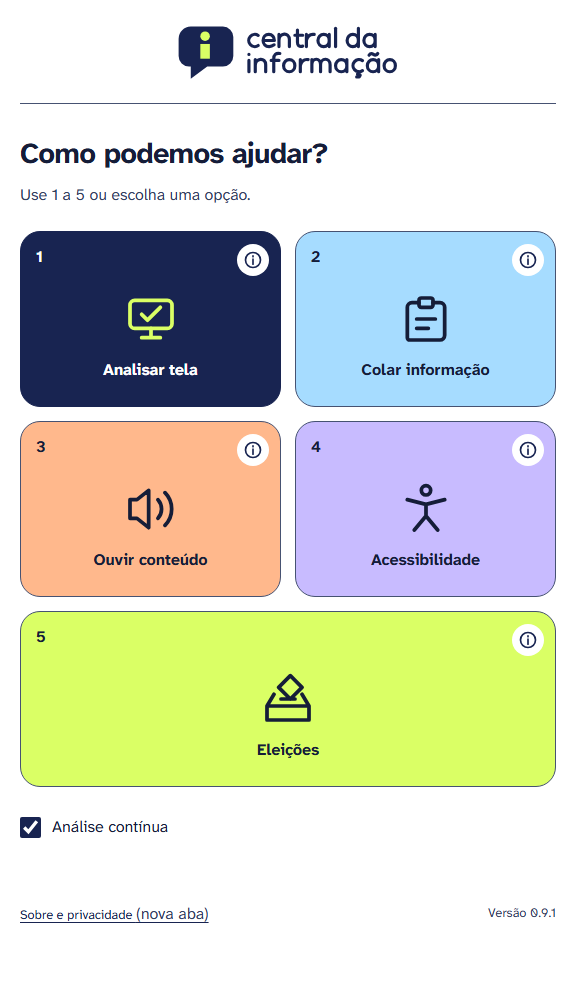
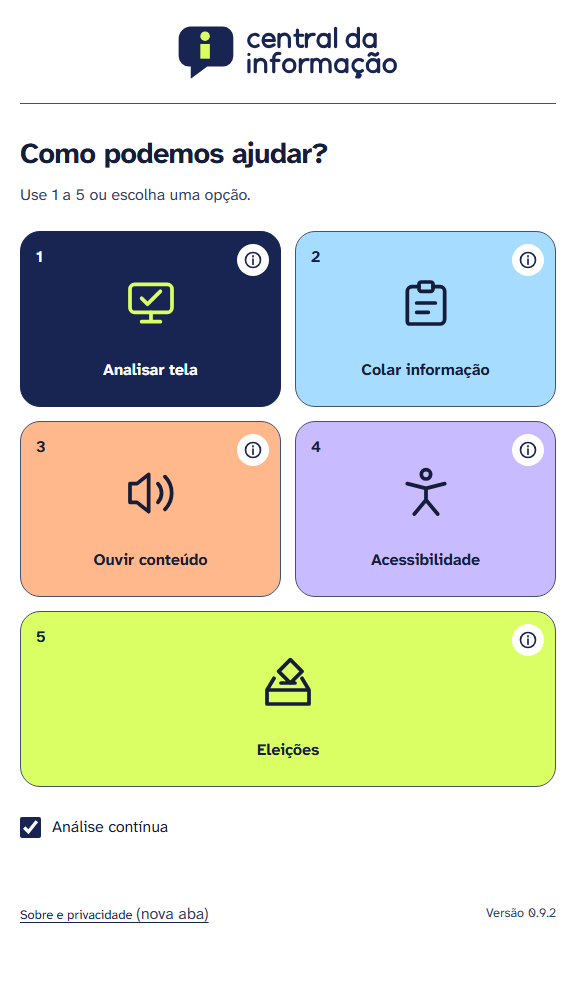
Eleva os ícones principais dos cards

diff --git a/web/estilos.css b/web/estilos.css
@@ -59,7 +59,7 @@ p { margin: .8rem 0; }
 .action-card-primary { background: var(--primary); color: var(--on-primary); border-color: var(--primary); }
 .action-card-primary .card-icon { color: var(--signal); }
 .action-card:hover .card-label { text-decoration: underline; text-underline-offset: .2em; }
-.card-icon { display: block; grid-row: 2; line-height: 0; }
+.card-icon { display: block; grid-row: 2; line-height: 0; transform: translateY(-1rem); }
 .card-icon svg { width: 3.5rem; height: 3.5rem; stroke: currentColor; stroke-width: 1.6; stroke-linecap: round; stroke-linejoin: round; }
 .card-label { grid-row: 3; align-self: start; margin-top: 12px; font-size: 1rem; font-weight: 700; line-height: 1.4; min-width: 0; }
 body[data-large-text="true"] .action-grid { grid-template-columns: 1fr; }

diff --git a/web/index.html b/web/index.html
@@ -187,7 +187,7 @@
       </section>
       <p class="sr-only" id="app-status" role="status" aria-live="polite" aria-atomic="true"></p>
     </main>
-    <footer class="footer"><a href="sobre.html" target="_blank" rel="noopener noreferrer">Sobre e privacidade <span class="small">(nova aba)</span></a><span id="project-version">Versão 0.9.1</span></footer>
+    <footer class="footer"><a href="sobre.html" target="_blank" rel="noopener noreferrer">Sobre e privacidade <span class="small">(nova aba)</span></a><span id="project-version">Versão 0.9.2</span></footer>
   </div>
 </body>
 </html>

diff --git a/README.md b/README.md
@@ -2,7 +2,7 @@
 
 # Central da Informação
 
-**Versão 0.9.1** · Site e extensão para Chrome de computador.
+**Versão 0.9.2** · Site e extensão para Chrome de computador.
 
 A Central da Informação acompanha a área de tela que você escolher, reconhece texto em português e mostra a afirmação checada, a explicação e a fonte. O acompanhamento ocorre no dispositivo e dispensa conta, chave de API e gravação.
 
